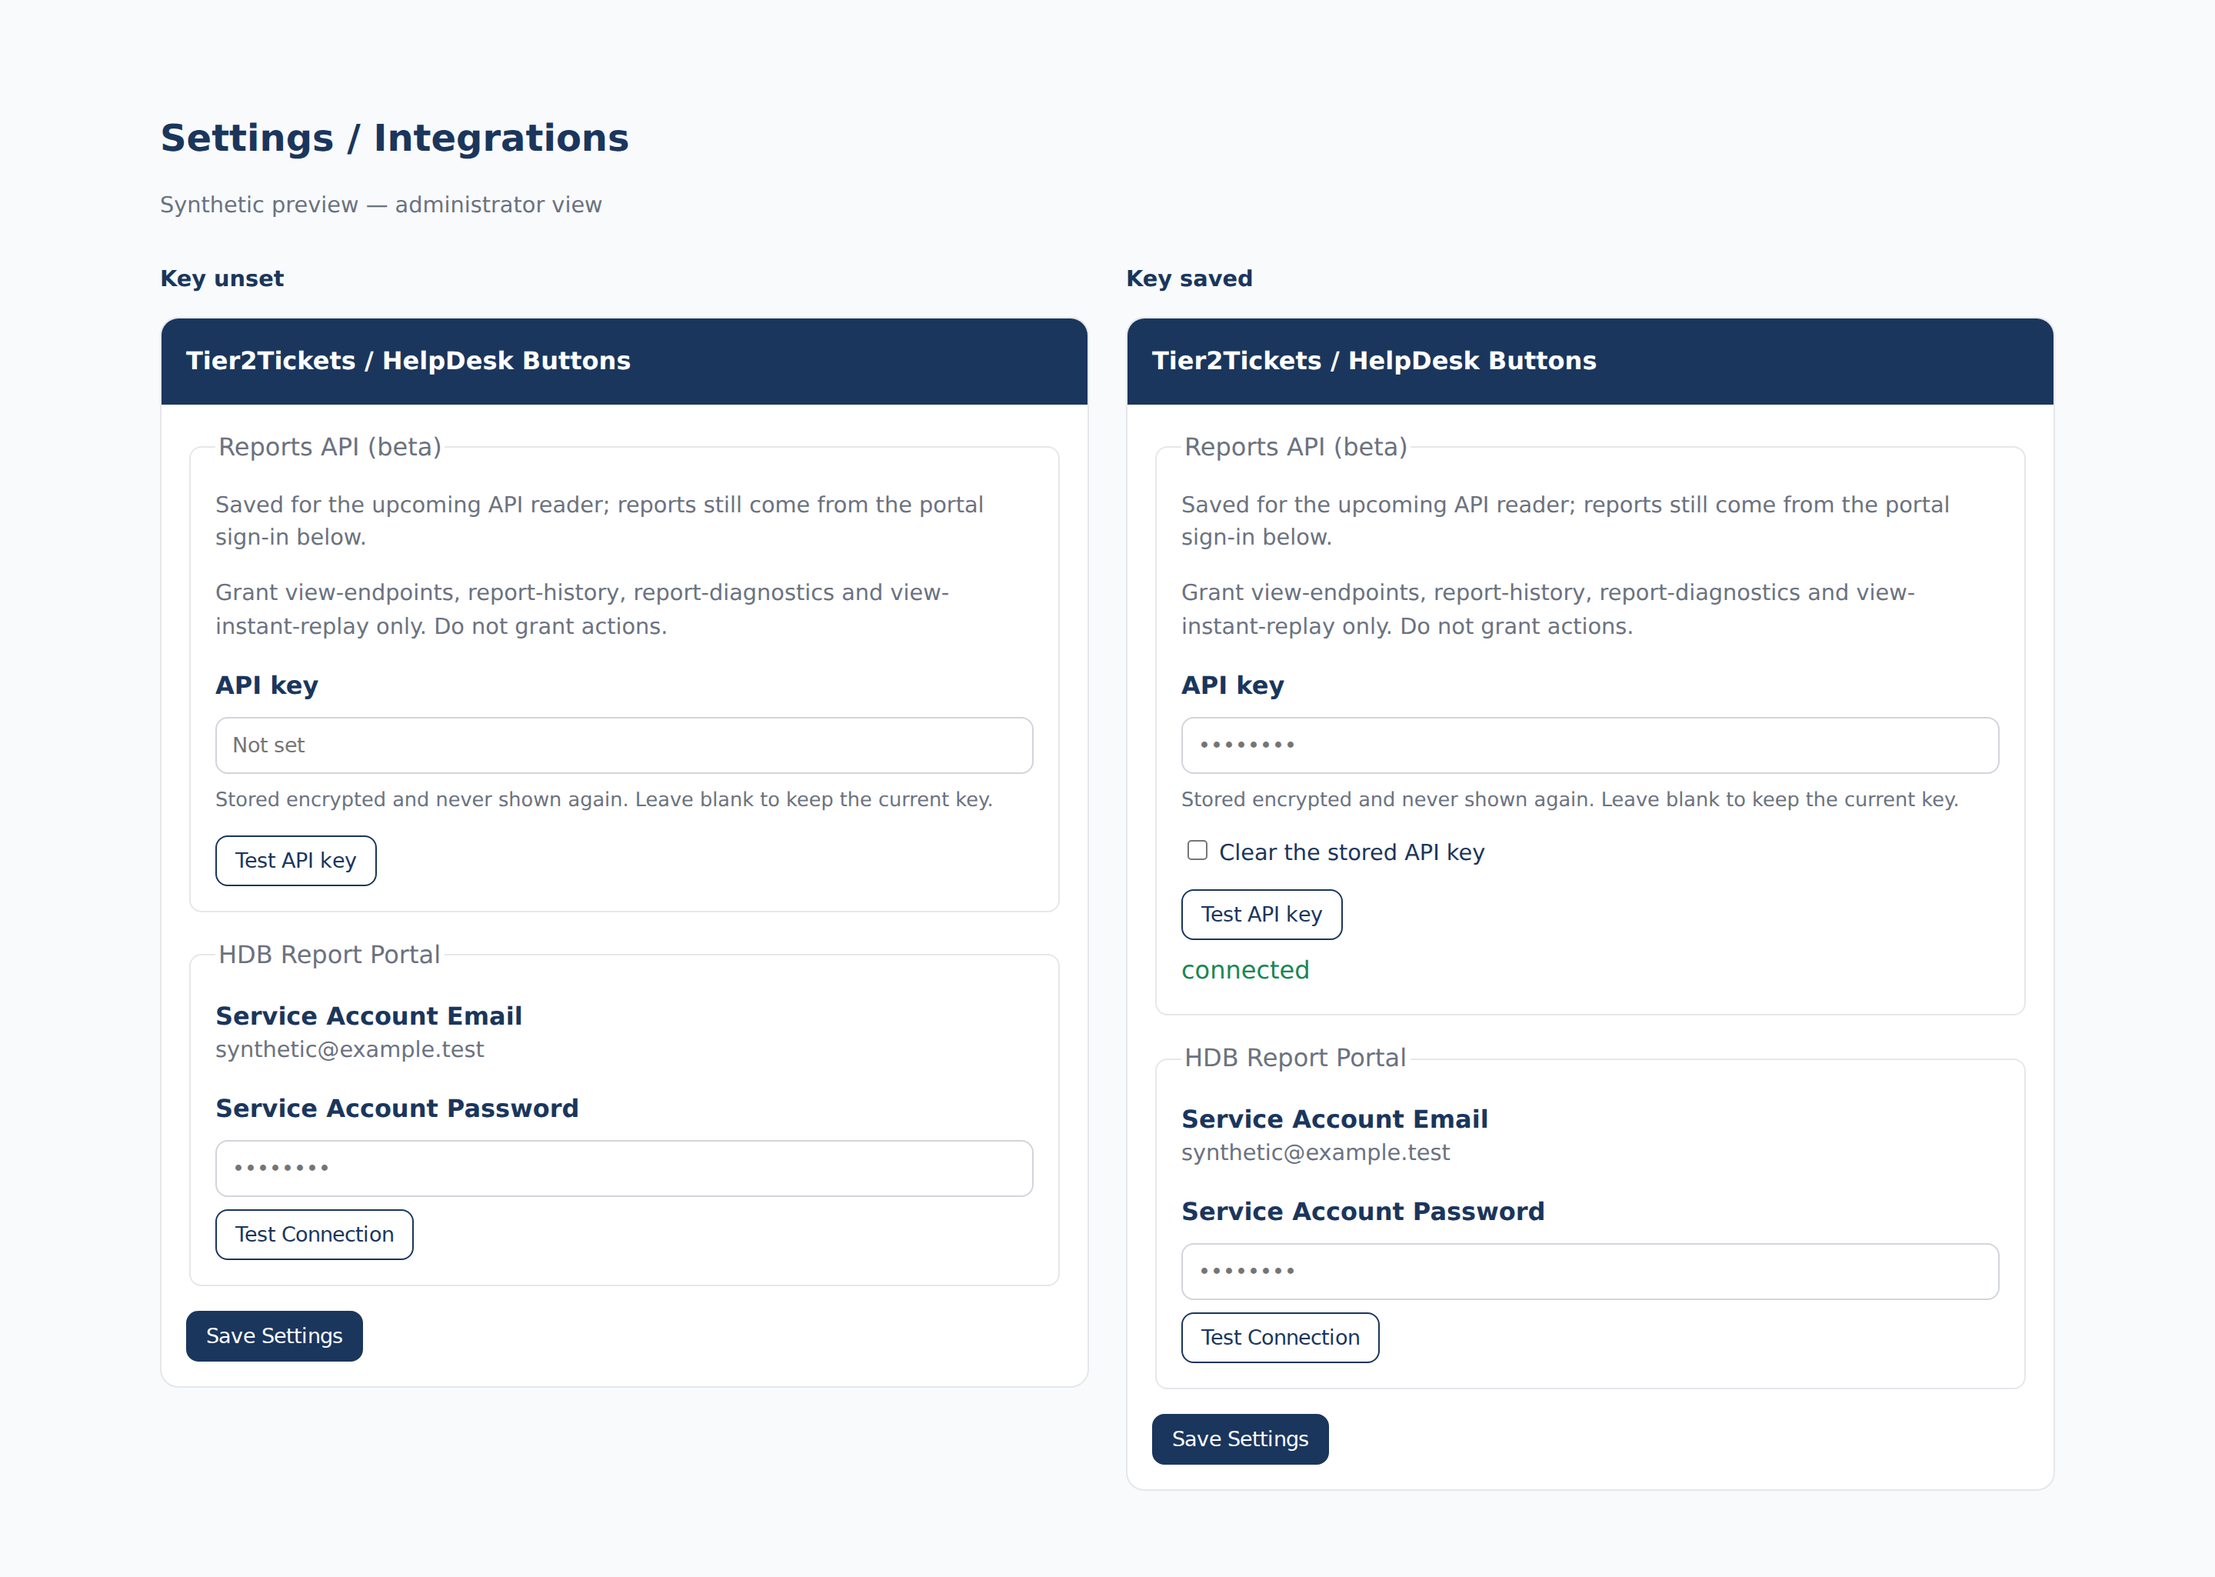
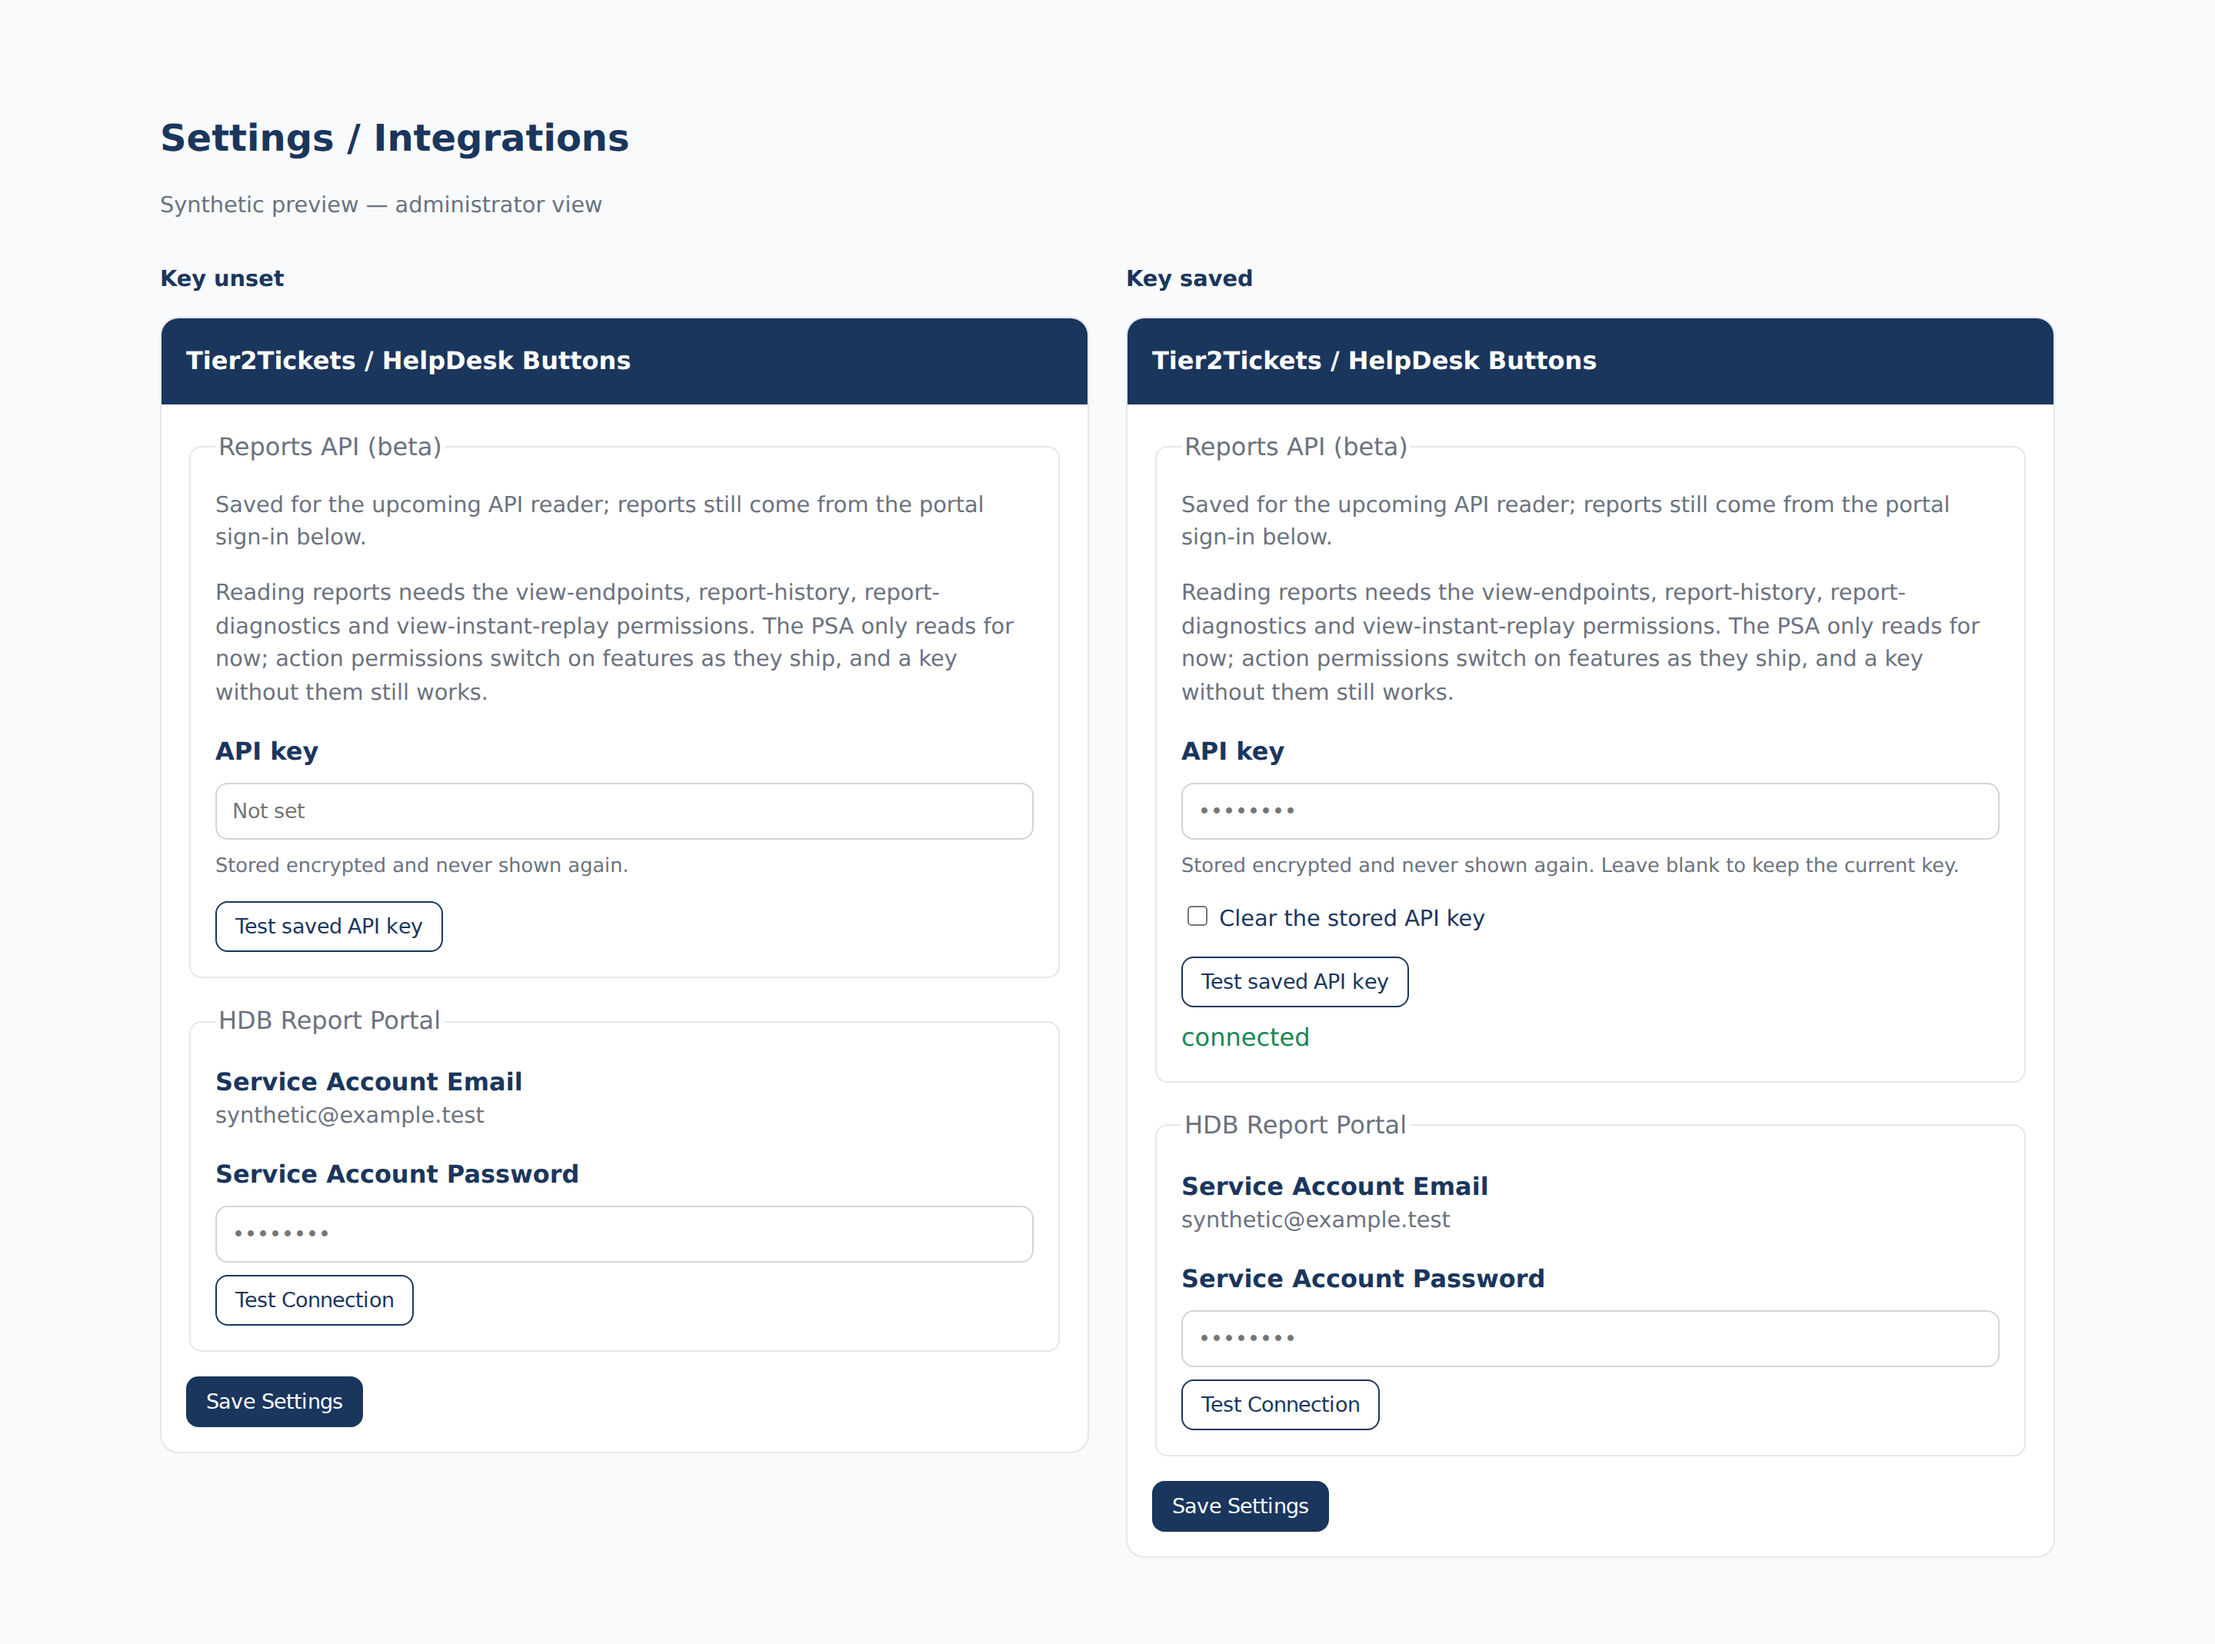
Keep the Reports API key out of flashed input and correct its setup copy
Add hdb_api_key to the exception handler's dontFlash list so a failed
settings save never writes the plaintext key into the session. Reword the
permission guidance to match the widened scope: reading needs the four
read permissions, action permissions are optional and switch on features
as they ship. Show the keep-current hint only when a key is stored, and
label the button for what it tests (the saved key). Mockup re-shot.

Held-review HOLD ruling A on pr-hdbapi-s1-r1 (Forge fix commit, flagged).

Claim-Seat: forge-vm102-resident

Changed region(s): [[0.0625, 0.0624, 0.9375, 0.9366]]

diff --git a/design/mockups/settings/integrations-hdb-api.html b/design/mockups/settings/integrations-hdb-api.html
@@ -2,6 +2,6 @@
 <html lang="en"><head><meta charset="utf-8"><title>Reports API settings — synthetic states</title><link rel="stylesheet" href="../_tokens.css"><style>
 *{box-sizing:border-box}body{margin:0;background:var(--psa-colors-canvas);color:var(--psa-colors-ink);font-family:var(--psa-typography-body-font-family);line-height:var(--psa-typography-body-line-height)}main{max-width:1280px;margin:32px auto;padding:var(--psa-spacing-lg)}h1,h2{font-family:var(--psa-typography-display-font-family);color:var(--psa-colors-navy)}h1{font-size:var(--psa-typography-display-font-size)}h2{font-size:var(--psa-typography-title-font-size)}.states{display:grid;grid-template-columns:1fr 1fr;gap:var(--psa-spacing-lg)}article{border:1px solid var(--psa-colors-border);border-radius:var(--psa-rounded-md);background:var(--psa-colors-surface);overflow:hidden}header{padding:var(--psa-spacing-md);background:var(--psa-colors-navy);color:var(--psa-colors-surface);font-family:var(--psa-typography-title-font-family);font-weight:600}.body{padding:var(--psa-spacing-md)}fieldset{border:1px solid var(--psa-colors-border);border-radius:var(--psa-rounded-sm);padding:var(--psa-spacing-md);margin-bottom:var(--psa-spacing-md)}legend,p{color:var(--psa-colors-muted-ink)}p{font-size:.9rem;margin-top:0}label{display:block;font-weight:600;color:var(--psa-colors-navy)}input[type=password]{width:100%;border:1px solid var(--psa-colors-field-border);padding:10px;border-radius:var(--psa-rounded-sm);margin:8px 0}input[type=checkbox]{accent-color:var(--psa-colors-navy)}.clear{font-weight:400;font-size:.9rem;margin:12px 0}button{background:var(--psa-colors-surface);color:var(--psa-colors-navy);border:1px solid var(--psa-colors-navy);border-radius:var(--psa-rounded-sm);padding:8px 12px;cursor:pointer}button:hover{background:var(--psa-colors-navy-light);color:var(--psa-colors-surface)}button:focus-visible,input:focus-visible{outline:2px solid var(--psa-colors-navy-light);outline-offset:2px}button:active{background:var(--psa-colors-navy-deep);color:var(--psa-colors-surface)}button:disabled{opacity:.5;cursor:default}.save{background:var(--psa-colors-navy);color:var(--psa-colors-surface)}.connected{color:var(--psa-colors-success);margin-top:8px}.hint{font-size:.8rem}small{color:var(--psa-colors-muted-ink)}
 </style></head><body><main><h1>Settings / Integrations</h1><p>Synthetic preview — administrator view</p><div class="states">
-<section><h2>Key unset</h2><article><header>Tier2Tickets / HelpDesk Buttons</header><div class="body"><fieldset><legend>Reports API (beta)</legend><p>Saved for the upcoming API reader; reports still come from the portal sign-in below.</p><p>Grant view-endpoints, report-history, report-diagnostics and view-instant-replay only. Do not grant actions.</p><label for="unset">API key</label><input type="password" id="unset" placeholder="Not set"><p class="hint">Stored encrypted and never shown again. Leave blank to keep the current key.</p><button>Test API key</button></fieldset><fieldset><legend>HDB Report Portal</legend><label>Service Account Email</label><p>synthetic@example.test</p><label>Service Account Password</label><input type="password" placeholder="••••••••"><button>Test Connection</button></fieldset><button class="save">Save Settings</button></div></article></section>
-<section><h2>Key saved</h2><article><header>Tier2Tickets / HelpDesk Buttons</header><div class="body"><fieldset><legend>Reports API (beta)</legend><p>Saved for the upcoming API reader; reports still come from the portal sign-in below.</p><p>Grant view-endpoints, report-history, report-diagnostics and view-instant-replay only. Do not grant actions.</p><label for="saved">API key</label><input type="password" id="saved" placeholder="••••••••"><p class="hint">Stored encrypted and never shown again. Leave blank to keep the current key.</p><label class="clear"><input type="checkbox"> Clear the stored API key</label><button>Test API key</button><div class="connected">connected</div></fieldset><fieldset><legend>HDB Report Portal</legend><label>Service Account Email</label><p>synthetic@example.test</p><label>Service Account Password</label><input type="password" placeholder="••••••••"><button>Test Connection</button></fieldset><button class="save">Save Settings</button></div></article></section>
+<section><h2>Key unset</h2><article><header>Tier2Tickets / HelpDesk Buttons</header><div class="body"><fieldset><legend>Reports API (beta)</legend><p>Saved for the upcoming API reader; reports still come from the portal sign-in below.</p><p>Reading reports needs the view-endpoints, report-history, report-diagnostics and view-instant-replay permissions. The PSA only reads for now; action permissions switch on features as they ship, and a key without them still works.</p><label for="unset">API key</label><input type="password" id="unset" placeholder="Not set"><p class="hint">Stored encrypted and never shown again.</p><button>Test saved API key</button></fieldset><fieldset><legend>HDB Report Portal</legend><label>Service Account Email</label><p>synthetic@example.test</p><label>Service Account Password</label><input type="password" placeholder="••••••••"><button>Test Connection</button></fieldset><button class="save">Save Settings</button></div></article></section>
+<section><h2>Key saved</h2><article><header>Tier2Tickets / HelpDesk Buttons</header><div class="body"><fieldset><legend>Reports API (beta)</legend><p>Saved for the upcoming API reader; reports still come from the portal sign-in below.</p><p>Reading reports needs the view-endpoints, report-history, report-diagnostics and view-instant-replay permissions. The PSA only reads for now; action permissions switch on features as they ship, and a key without them still works.</p><label for="saved">API key</label><input type="password" id="saved" placeholder="••••••••"><p class="hint">Stored encrypted and never shown again. Leave blank to keep the current key.</p><label class="clear"><input type="checkbox"> Clear the stored API key</label><button>Test saved API key</button><div class="connected">connected</div></fieldset><fieldset><legend>HDB Report Portal</legend><label>Service Account Email</label><p>synthetic@example.test</p><label>Service Account Password</label><input type="password" placeholder="••••••••"><button>Test Connection</button></fieldset><button class="save">Save Settings</button></div></article></section>
 </div></main></body></html>

diff --git a/resources/views/settings/integrations.blade.php b/resources/views/settings/integrations.blade.php
@@ -3675,21 +3675,21 @@
                     <fieldset class="border rounded p-3 mb-3">
                         <legend class="float-none w-auto px-2 fs-6 text-muted">Reports API (beta)</legend>
                         <p class="text-muted small">Saved for the upcoming API reader; reports still come from the portal sign-in below.</p>
-                        <p class="text-muted small">Grant view-endpoints, report-history, report-diagnostics and view-instant-replay only. Do not grant actions.</p>
+                        <p class="text-muted small">Reading reports needs the view-endpoints, report-history, report-diagnostics and view-instant-replay permissions. The PSA only reads for now; action permissions switch on features as they ship, and a key without them still works.</p>
                         @if(auth()->user()?->isAdmin())
                             <label for="hdb_api_key" class="form-label">API key</label>
                             <input type="password" class="form-control @error('hdb_api_key') is-invalid @enderror"
                                    id="hdb_api_key" name="hdb_api_key" autocomplete="new-password"
                                    placeholder="{{ $hdbApiConfigured ? '••••••••' : 'Not set' }}">
                             @error('hdb_api_key')<div class="invalid-feedback">{{ $message }}</div>@enderror
-                            <div class="form-text">Stored encrypted and never shown again. Leave blank to keep the current key.</div>
+                            <div class="form-text">Stored encrypted and never shown again.@if($hdbApiConfigured) Leave blank to keep the current key.@endif</div>
                             @if($hdbApiConfigured)
                                 <div class="form-check my-2">
                                     <input class="form-check-input" type="checkbox" id="hdb_api_key_clear" name="hdb_api_key_clear" value="1">
                                     <label class="form-check-label" for="hdb_api_key_clear">Clear the stored API key</label>
                                 </div>
                             @endif
-                            <button type="button" class="btn btn-outline-secondary btn-sm mt-2" onclick="testHdbApiKey(this)">Test API key</button>
+                            <button type="button" class="btn btn-outline-secondary btn-sm mt-2" onclick="testHdbApiKey(this)">Test saved API key</button>
                             <div id="test-result-hdb-api" class="mt-2" role="status"></div>
                         @endif
                     </fieldset>

diff --git a/bootstrap/app.php b/bootstrap/app.php
@@ -99,6 +99,7 @@ return Application::configure(basePath: dirname(__DIR__))
             'comet_admin_password',
             'comet_backup_password',
             'credentials',
+            'hdb_api_key',
             'hdb_password',
             'hdb_totp_secret',
             'install_account_token',

diff --git a/docs/INSTALL.md b/docs/INSTALL.md
@@ -6,9 +6,9 @@ Deploy your own instance of this PSA on a fresh VPS. This guide covers everythin
 
 ## HelpDesk Buttons Reports API (beta)
 
-1. In `account.helpdeskbuttons.com/api-credentials`, mint a key with only `view-endpoints`, `report-history`, `report-diagnostics`, and `view-instant-replay`. **Do not grant actions.** Scope it to the intended endpoint groups.
+1. In `account.helpdeskbuttons.com/api-credentials`, mint a key. Reading reports needs `view-endpoints`, `report-history`, `report-diagnostics` and `view-instant-replay`. Action permissions are optional: the PSA only reads today, each action feature switches on as it ships, and a key without that permission leaves that feature off. Scope it to the intended endpoint groups.
 2. As an administrator, paste the key into **Settings → Integrations → Tier2Tickets / HelpDesk Buttons → Reports API (beta)** and save. Blank or the mask keeps the stored key; **Clear the stored API key** deletes it, even if a replacement is entered in the same save.
-3. Run **Test API key** after saving. This makes one read of `/groups`; it does not fetch a report or prove report permissions.
+3. Run **Test saved API key** after saving. This makes one read of `/groups`; it does not fetch a report or prove report permissions.
 4. Run `php artisan hdb:api-probe --notes=10` in the authorized application environment. It reads recent keyed notes and reports mapping booleans/counts, not report content. Lists are bounded; `list_incomplete` counts walks that did not reach a null cursor. An incomplete walk cannot prove absence.
 5. This slice does not change report fetching: the existing portal sign-in remains the only reader used by the ticket tool. Have the probe evidence reviewed before enabling any future API source mapping. No report identifiers are persisted by the probe.
 
